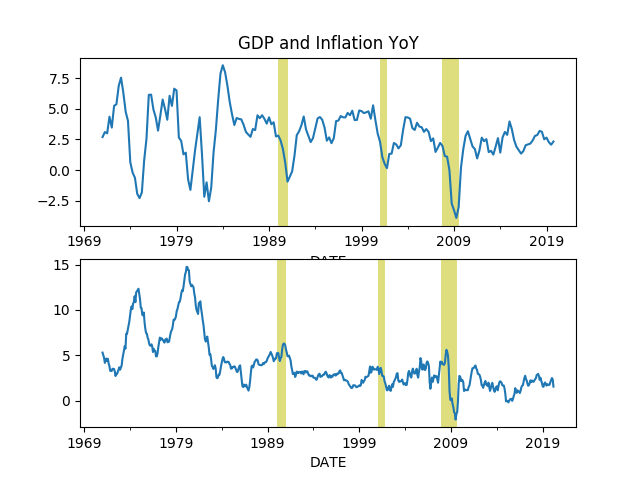
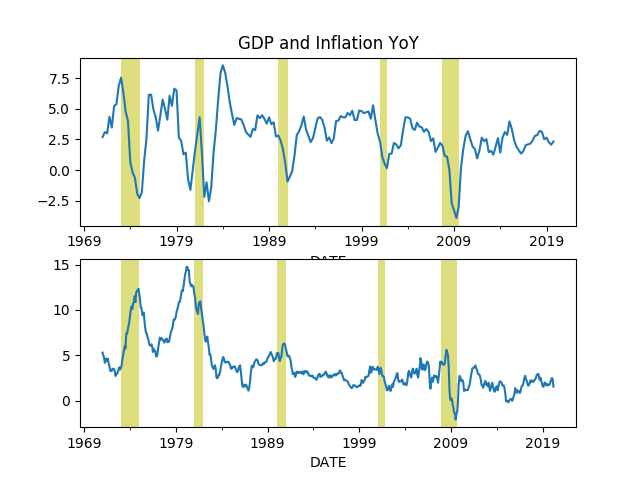
-

diff --git a/en/2019/05/stats.md b/en/2019/05/stats.md
@@ -103,6 +103,8 @@ fig, axs = plt.subplots(2)
 df = data.DataReader(['GDPC1'], 'fred', start, end)
 df['gdpyoy'] = (df.GDPC1 - df.GDPC1.shift(4)) / df.GDPC1.shift(4) * 100.0
 df['gdpyoy'].plot(ax=axs[0],title="GDP and Inflation YoY")
+axs[0].axvspan('01-11-1973', '01-03-1975', color='y', alpha=0.5, lw=0)
+axs[0].axvspan('01-07-1981', '01-11-1982', color='y', alpha=0.5, lw=0)
 axs[0].axvspan('01-09-1990', '01-07-1991', color='y', alpha=0.5, lw=0)
 axs[0].axvspan('01-03-2001', '27-10-2001', color='y', alpha=0.5, lw=0)
 axs[0].axvspan('22-12-2007', '09-05-2009', color='y', alpha=0.5, lw=0)
@@ -111,6 +113,8 @@ print (df[['gdpyoy']].tail(6))
 df = data.DataReader(['CPIAUCNS'], 'fred', start, end)
 df['infyoy'] = (df.CPIAUCNS - df.CPIAUCNS.shift(12)) / df.CPIAUCNS.shift(12) * 100.0
 df['infyoy'].plot(ax=axs[1])
+axs[1].axvspan('01-11-1973', '01-03-1975', color='y', alpha=0.5, lw=0)
+axs[1].axvspan('01-07-1981', '01-11-1982', color='y', alpha=0.5, lw=0)
 axs[1].axvspan('01-09-1990', '01-07-1991', color='y', alpha=0.5, lw=0)
 axs[1].axvspan('01-03-2001', '27-10-2001', color='y', alpha=0.5, lw=0)
 axs[1].axvspan('22-12-2007', '09-05-2009', color='y', alpha=0.5, lw=0)
